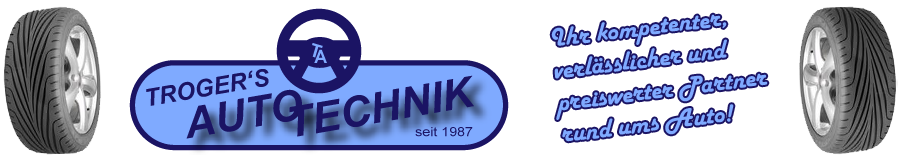
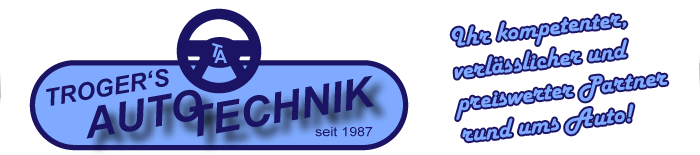
Put footer to bottom, improve header image

diff --git a/assets/css/style.scss b/assets/css/style.scss
@@ -3,6 +3,16 @@
 
 @import "{{ site.theme }}";
 
+#main-content {
+  float: none;
+  max-width: 100%;
+  width: auto;
+}
+
+footer {
+  clear: both;
+}
+
 header {
   background: #2e7bcf;
   background-image: none;
